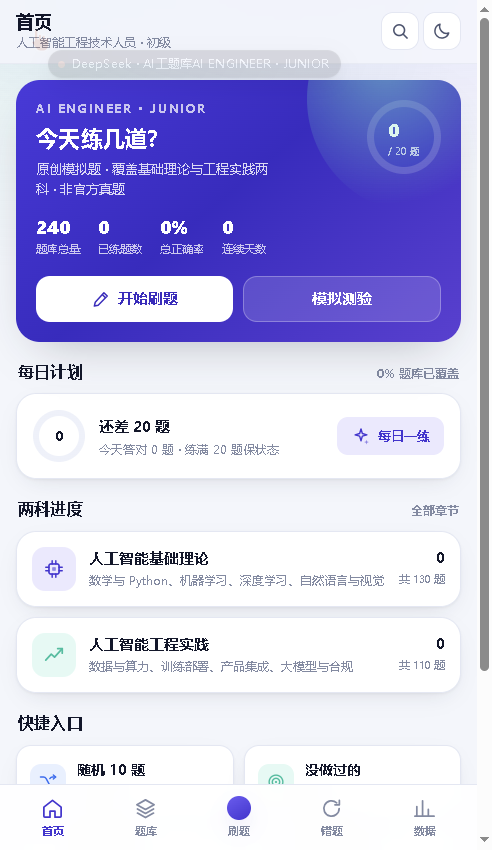
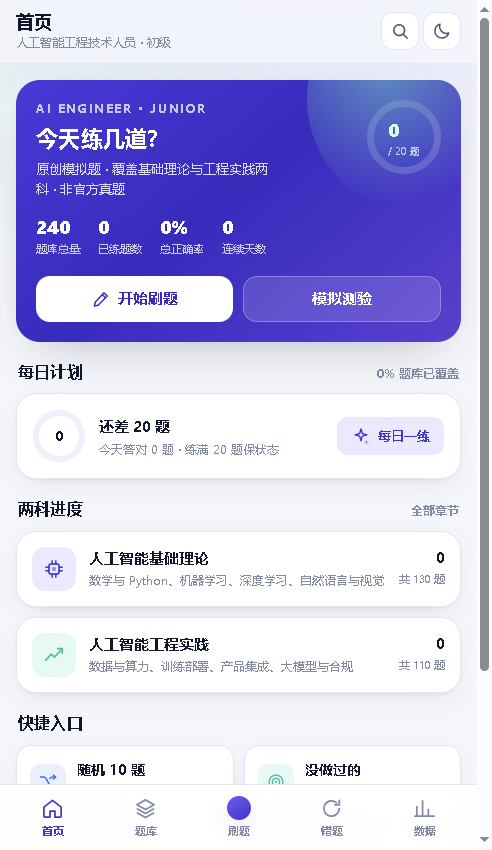
README 增加扫码入口与界面预览

Changed region(s): [[0.0915, 0.0612, 0.7012, 0.0918], [0.061, 0.0306, 0.0915, 0.0612]]

diff --git a/README.md b/README.md
@@ -4,6 +4,15 @@
 
 线上地址：https://al1c0ach.github.io/ai-engineer-exam/
 
+手机扫码直达：
+
+<img src="qr.png" width="220" alt="扫码刷题">
+
+| 首页 | 答题 |
+| --- | --- |
+| <img src="preview-home.png" width="230"> | <img src="preview-question.png" width="230"> |
+
+
 ## 功能
 
 - **分类题库**：基础理论（数理基础 / 机器学习 / 深度学习 / NLP 语音 / 计算机视觉）+ 工程实践（数据算力 / 训练部署 / 产品集成 / 大模型 / 伦理法规），10 章 45 个考点，每章可看考点分布与进度
